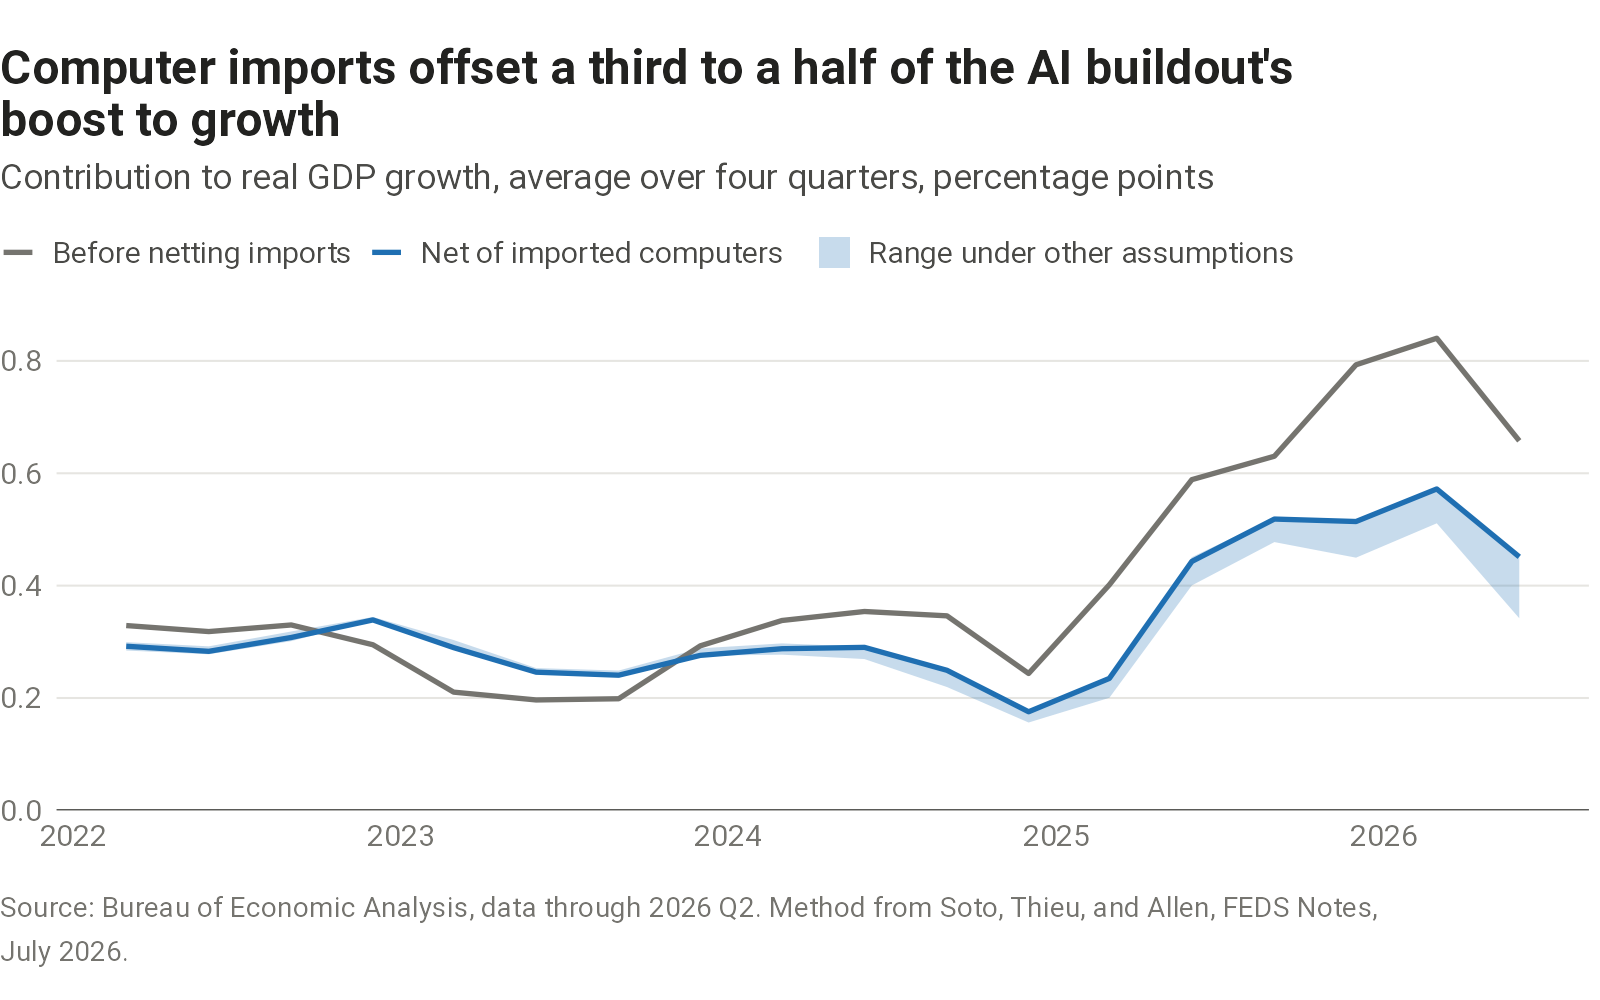
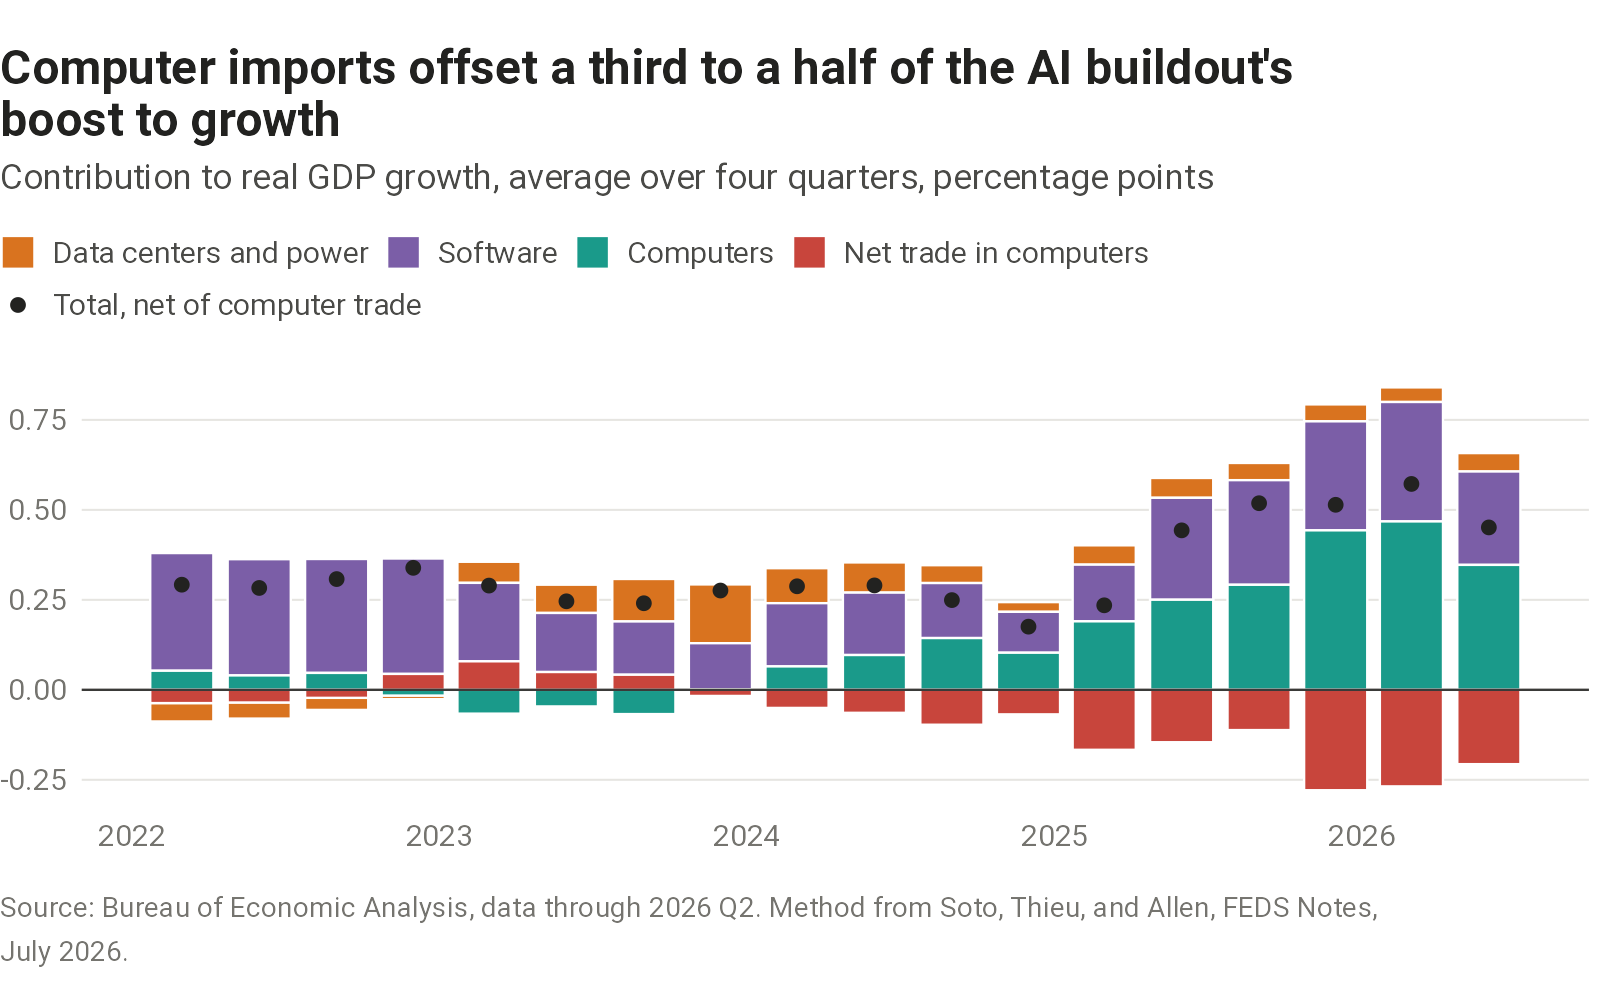
Restore the stacked four-quarter average AI investment chart
Claude-Session: https://claude.ai/code/session_01C4kQtTHdakDNHHerQuEFwM

diff --git a/charts/ai-investment-gdp/spec.md b/charts/ai-investment-gdp/spec.md
@@ -56,7 +56,7 @@ For computer trade, the lagged share is multiplied by the capital goods share of
 
 Net contribution = software + computers + data centers + power + net exports of computers.
 
-The chart plots four-quarter averages of the gross total, the net total under the FEDS method, and a band from the lowest to the highest net total across the FEDS method, the BEA domestic-use trade weight, and computer trade deflated with the investment price. The CSV has the averages of every component as well.
+The chart plots four-quarter averages of these quarterly contributions and combines data centers and power into one bar. The CSV has the averages, with data centers and power separate.
 
 ## Vintages
 
@@ -167,5 +167,3 @@ As of 2026-09-26. Not yet decided or done.
 - 2026-09-26: The text above the chart opens with the general point, that AI investment has lifted growth over the past two years but headline figures overstate it because of imports. Check that wording on each refresh.
 - 2026-09-26: The text names the four components rather than calling the total "AI investment", since they also carry spending unrelated to AI: the same components added about 0.3 point a year to growth in 2022 and 2023. The chart subtitle drops "AI-related" for the same reason.
 - 2026-09-26: Plot four-quarter averages instead of quarterly contributions, as the text does, since quarterly bars swing too much to show the trend. Replaces the earlier decision to show quarterly contributions as the note does; `reproduce.R` still checks the quarterly figures. Tried splitting into two charts (gross by component, then gross against net); dropped because the first would stand alone on the headline figure the chart argues is overstated.
-- 2026-09-26: Show gross and net totals as lines, with the range across import assumptions as a band, instead of stacked components. Every number in the text is then on the chart, and the rise from 2025 is easy to see. The components are in the CSV.
-- 2026-09-26: Show gross and net totals as lines, with the range across import assumptions as a band, instead of stacked components. Every number in the text is then on the chart, and the rise from 2025 is easy to see. The components are in the CSV.

diff --git a/charts/ai-investment-gdp/output/ai-investment-gdp-lead.md b/charts/ai-investment-gdp/output/ai-investment-gdp-lead.md
@@ -1,1 +1,1 @@
-Investment in software, computers, data centers, and power—the spending that carries the AI buildout—has lifted real GDP growth since early 2025, but by less than headline figures suggest because many of the computers are imported. Over the past four quarters, this investment added 0.66 percentage point to real GDP growth of 2.1 percent. Net of imported computers and parts, it added 0.45 point, and as little as 0.34 under other reasonable assumptions. In 2023, before the buildout, it added about 0.3 point with or without imports.
+Investment in software, computers, data centers, and power—the spending that carries the AI buildout—has lifted real GDP growth over the past two years, but by less than headline figures suggest because many of the computers are imported. Over the past four quarters, this investment added 0.66 percentage point to real GDP growth of 2.1 percent. Net of imported computers and parts, it added 0.45 point, and as little as 0.34 under other reasonable assumptions. In 2022 and 2023, before the buildout, the same investment added about 0.3 point, mostly from software.

diff --git a/charts/ai-investment-gdp/output/ai-investment-gdp-notes.md b/charts/ai-investment-gdp/output/ai-investment-gdp-notes.md
@@ -1,10 +1,12 @@
 ::: {.chart-notes}
 
-**Before netting imports:** Business investment in software, computers, data centers, and power.
+**Data centers and power:** Construction of data centers and power plants.
 
-**Net of imported computers:** Subtracts computer imports minus exports, counting only the share that goes to business.
+**Software:** Business spending on software.
 
-**Range under other assumptions:** Estimates that share from U.S. computer spending, or prices imports like the computers businesses buy.
+**Computers:** Business spending on computers and related equipment.
+
+**Net trade in computers:** Computer exports minus imports, counting the share that goes to business.
 
 ::: {.chart-source}
 Source: Bureau of Economic Analysis, through 2026 Q2. Method from Soto, Thieu, and Allen, ["The AI Buildout and the Economy"](https://www.federalreserve.gov/econres/notes/feds-notes/the-ai-buildout-and-the-economy-publicly-available-data-to-assess-ais-impact-20260717.html), FEDS Notes, July 2026. [Download the data (CSV)](charts/ai-investment-gdp/output/ai-investment-gdp.csv)
